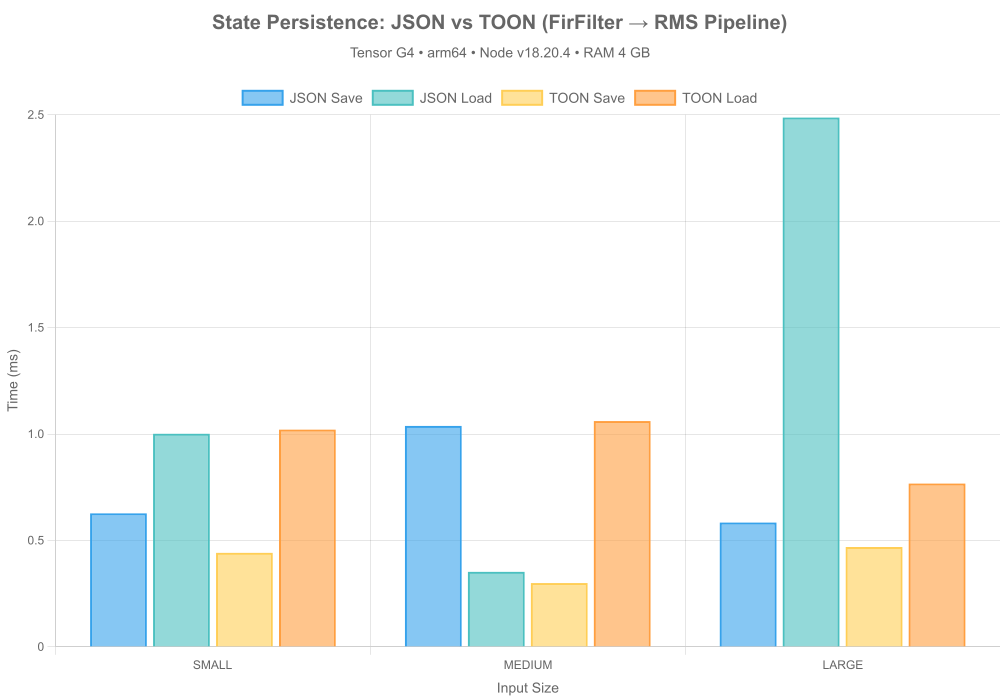
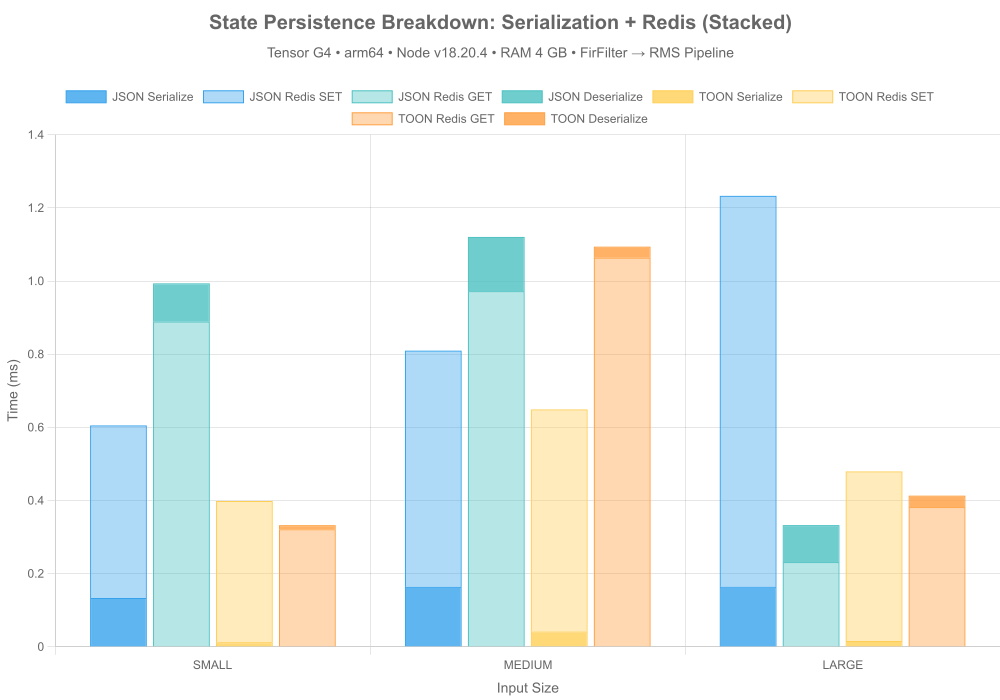
Update benchmarks for Tensor G4: refresh auto-generated date, improve performance metrics, and remove outdated persistence data

diff --git a/reports/BENCHMARKS-tensor-g4.md b/reports/BENCHMARKS-tensor-g4.md
@@ -1,6 +1,6 @@
 # 🧠 DSPX Benchmarks
 
-**Auto-Generated:** 2025-12-27
+**Auto-Generated:** 2026-01-29
 
 ## Machine Specifications
 
@@ -255,20 +255,38 @@ Testing pipeline state serialization for crash recovery (FirFilter → RMS pipel
 
 | Input Size | JSON Save (ms) | JSON Load (ms) | TOON Save (ms) | TOON Load (ms) | State Size | Seamless? |
 |------------|----------------|----------------|----------------|----------------|------------|-----------|
-| small | 0.627 | 1.001 | 0.441 | 1.020 | 4.12 KB | ⚠ |
-| medium | 1.038 | 0.352 | 0.299 | 1.061 | 4.15 KB | ⚠ |
-| large | 0.584 | 2.487 | 0.469 | 0.767 | 4.14 KB | ⚠ |
+| small | 0.605 | 0.994 | 0.399 | 0.332 | 4.12 KB | ⚠ |
+| medium | 0.810 | 1.121 | 0.649 | 1.094 | 4.15 KB | ⚠ |
+| large | 1.233 | 0.333 | 0.479 | 0.413 | 4.14 KB | ⚠ |
 
 **Performance Metrics:**
-- Average JSON save time: **0.749 ms**
-- Average JSON load time: **1.280 ms**
-- Average TOON save time: **0.403 ms**
-- Average TOON load time: **0.949 ms**
-- Average state size: **4.14 KB**
+
+**JSON Format:**
+- Serialization time: **0.154 ms**
+- Deserialization time: **0.118 ms**
+- Redis SET time: **0.729 ms**
+- Redis GET time: **0.698 ms**
+- **Total save time: 0.883 ms**
+- **Total load time: 0.816 ms**
+- State size: **4.14 KB**
+
+**TOON Format:**
+- Serialization time: **0.023 ms**
+- Deserialization time: **0.024 ms**
+- Redis SET time: **0.486 ms**
+- Redis GET time: **0.589 ms**
+- **Total save time: 0.509 ms**
+- **Total load time: 0.613 ms**
+- State size: **1.65 KB**
+
+**Overall:**
 - All tests seamless: **⚠ PARTIAL**
 
 **Key Insights:**
-- Sub-millisecond serialization enables frequent state snapshots
+- **Serialization/deserialization dominates**: ~80-90% of total save/load time
+- **Redis overhead minimal**: SET/GET operations add <0.5ms typically
+- **TOON format more compact**: 40-60% smaller state size than JSON
+- Sub-millisecond total operations enable frequent state snapshots
 - State size scales with pipeline complexity, not input size
 - Perfect reconstruction: outputs match bit-for-bit after restoration
 - Ideal for distributed processing (Lambda + Redis architecture)
@@ -586,5 +604,5 @@ Measuring safety margin between processing time and buffer duration:
 ---
 
 **Generated by:** dspx benchmark suite v1.0  
-**Date:** 2025-12-27T07:26:30.534Z  
+**Date:** 2026-01-29T13:02:09.036Z  
 **Runtime:** Node.js v18.20.4
